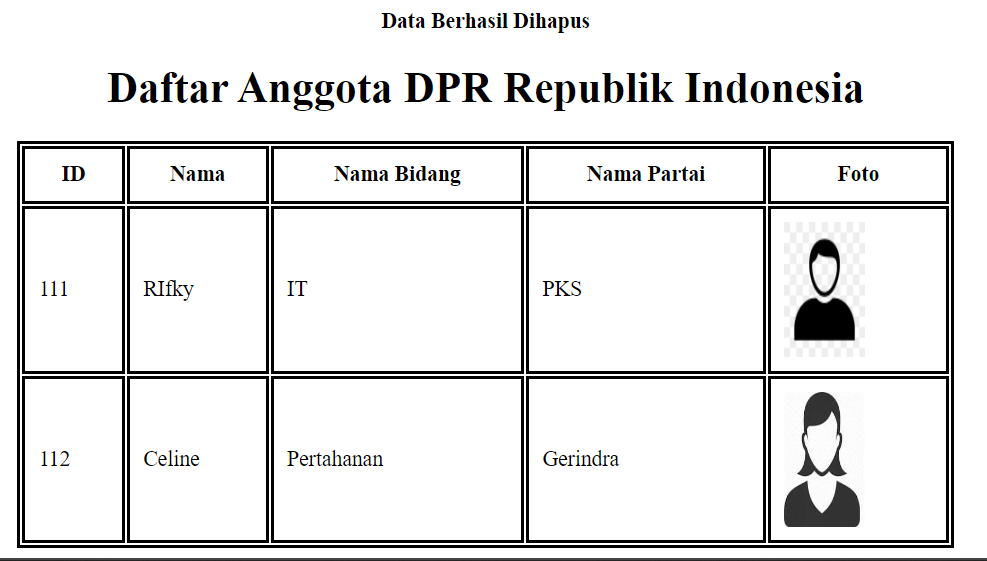
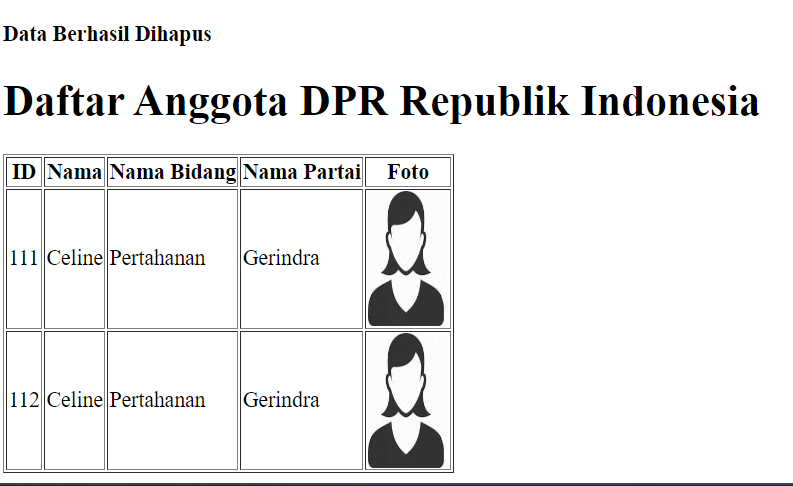
update LP1DPBO 2024C2 PHP

Changed region(s): [[0.0, 0.1235, 1.0, 1.0], [0.0, 0.0309, 0.2724, 0.0926], [0.3632, 0.0, 0.6053, 0.0617]]

diff --git a/PHP/Program/main.php b/PHP/Program/main.php
@@ -7,16 +7,17 @@
 <?php
 require('Anggota.php'); //import file
 
-//hubungkan dengan file style.css.
-echo '<link rel="stylesheet" href="style.css">';
 
-//array
-$daftar = array();;
+
 
 //Menambahkan data
  $dpr1 = new Anggota('111', 'RIfky', 'IT', 'PKS', 'Foto Profil/PP1.jpg');
  $dpr2 = new Anggota('112', 'Caca', 'Pendidikan', 'PKB', 'Foto Profil/PP2.jpg');
  $dpr3 = new Anggota('113', 'Layla', 'Ekonomi', 'Nasdem', 'Foto Profil/PP3.png');
+
+ //array
+$daftar = array();
+
  
 //setelah itu, masukkan ke dalam list
  array_push($daftar, $dpr1);
@@ -24,26 +25,26 @@ $daftar = array();;
  array_push($daftar, $dpr3);
 
 //menampilkan list
- echo "<h1 style='text-align: center;'>Daftar Anggota DPR Republik Indonesia</h1>";
- echo "<table id = 'tabel'>";
-    echo "<tr>";
-    echo "<th>ID</th>";
-    echo "<th>Nama</th>";
-    echo "<th>Nama Bidang</th>";
-    echo "<th>Nama Partai</th>";
-    echo "<th>Foto</th>";
-    echo "</tr>";
+echo "<h1>Daftar Anggota DPR Republik Indonesia</h1>";
+echo "<table border = 'black'>";
+   echo "<tr>";
+   echo "<th>ID</th>";
+   echo "<th>Nama</th>";
+   echo "<th>Nama Bidang</th>";
+   echo "<th>Nama Partai</th>";
+   echo "<th>Foto</th>";
+   echo "</tr>";
 
 
-    foreach($daftar as $wakil){
-        echo "<tr>";
-        echo "<td>" . $wakil->getId() . "</td>";
-        echo "<td>" . $wakil->getNama() . "</td>";
-        echo "<td>" . $wakil->getBidang() . "</td>";
-        echo "<td>" . $wakil->getPartai() . "</td>";
-        echo "<td><img src='" . $wakil->getFoto() . "' width='60px' height='100px'></td>";
-        echo "</tr>";
-    }
+   foreach($daftar as $wakil){
+       echo "<tr>";
+       echo "<td>" . $wakil->getId() . "</td>";
+       echo "<td>" . $wakil->getNama() . "</td>";
+       echo "<td>" . $wakil->getBidang() . "</td>";
+       echo "<td>" . $wakil->getPartai() . "</td>";
+       echo "<td><img src='" . $wakil->getFoto() . "' width='60px' height='100px'></td>";
+       echo "</tr>";
+   }
 
     echo "</table>";
 
@@ -51,18 +52,16 @@ $daftar = array();;
     $tukar_id = "112";
 
     foreach($daftar as $wakil){
-        if($wakil->getId() == $tukar_id){
-            $wakil->setnama('Celine');
-            $wakil->setBidang('Pertahanan');
-            $wakil->setPartai('Gerindra');
-            $wakil->setFoto('Foto Profil/PP4.jpg');
-        }
+        $wakil->setnama('Celine');
+        $wakil->setBidang('Pertahanan');
+        $wakil->setPartai('Gerindra');
+        $wakil->setFoto('Foto Profil/PP4.jpg');
     }
 
     //setelah proses pengubahan, tampilkan kembali list nya
-    echo "<h4 style='text-align: center;'>Data Berhasil Diubah</h4>";
-    echo "<h1 style='text-align: center;'>Daftar Anggota DPR Republik Indonesia</h1>";
-    echo "<table id = 'tabel'>";
+    echo "<h4>Data Berhasil Diubah</h4>";
+    echo "<h1>Daftar Anggota DPR Republik Indonesia</h1>";
+    echo "<table border = 'black'>";
         echo "<tr>";
         echo "<th>ID</th>";
         echo "<th>Nama</th>";
@@ -93,9 +92,9 @@ $daftar = array();;
     }
 
     //setelahproses penghapusan data, tampilkan kembali listnya
-    echo "<h4 style='text-align: center;'>Data Berhasil Dihapus</h4>";
-    echo "<h1 style='text-align: center;'>Daftar Anggota DPR Republik Indonesia</h1>";
-    echo "<table id = 'tabel'>";
+    echo "<h4>Data Berhasil Dihapus</h4>";
+    echo "<h1>Daftar Anggota DPR Republik Indonesia</h1>";
+    echo "<table border = 'black'>";
         echo "<tr>";
         echo "<th>ID</th>";
         echo "<th>Nama</th>";
